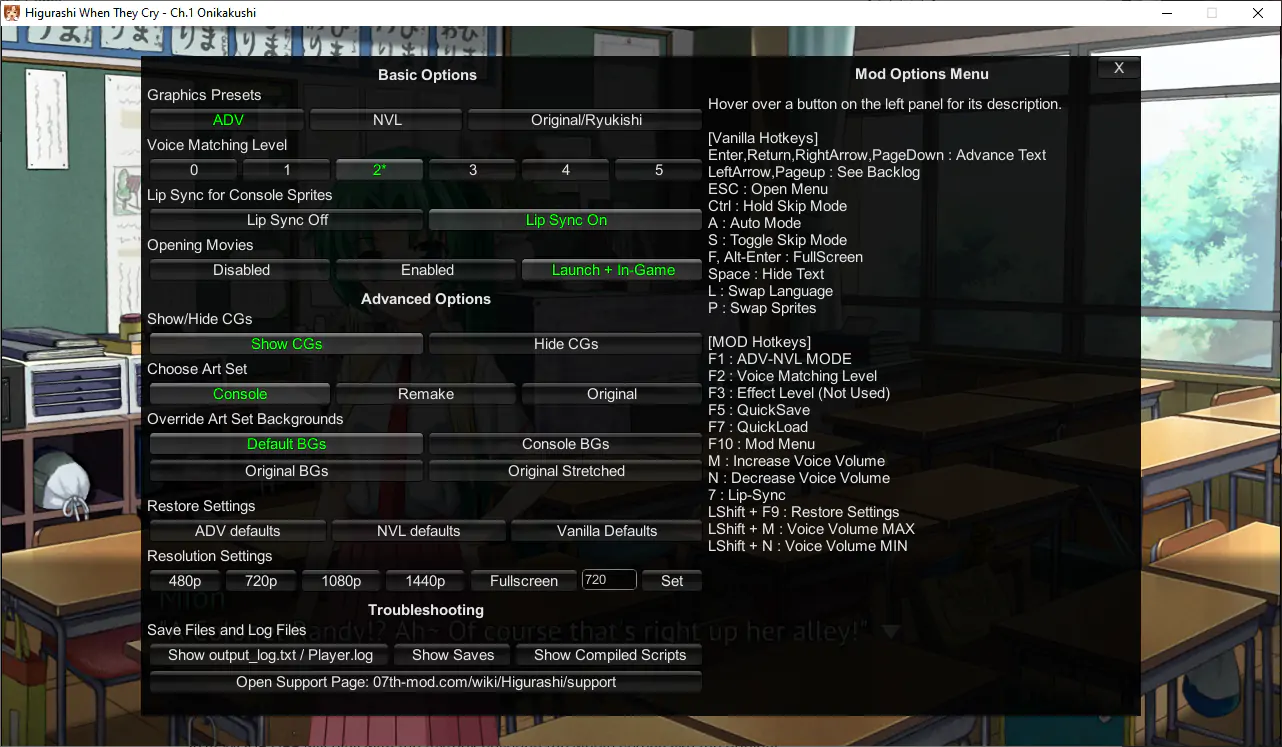
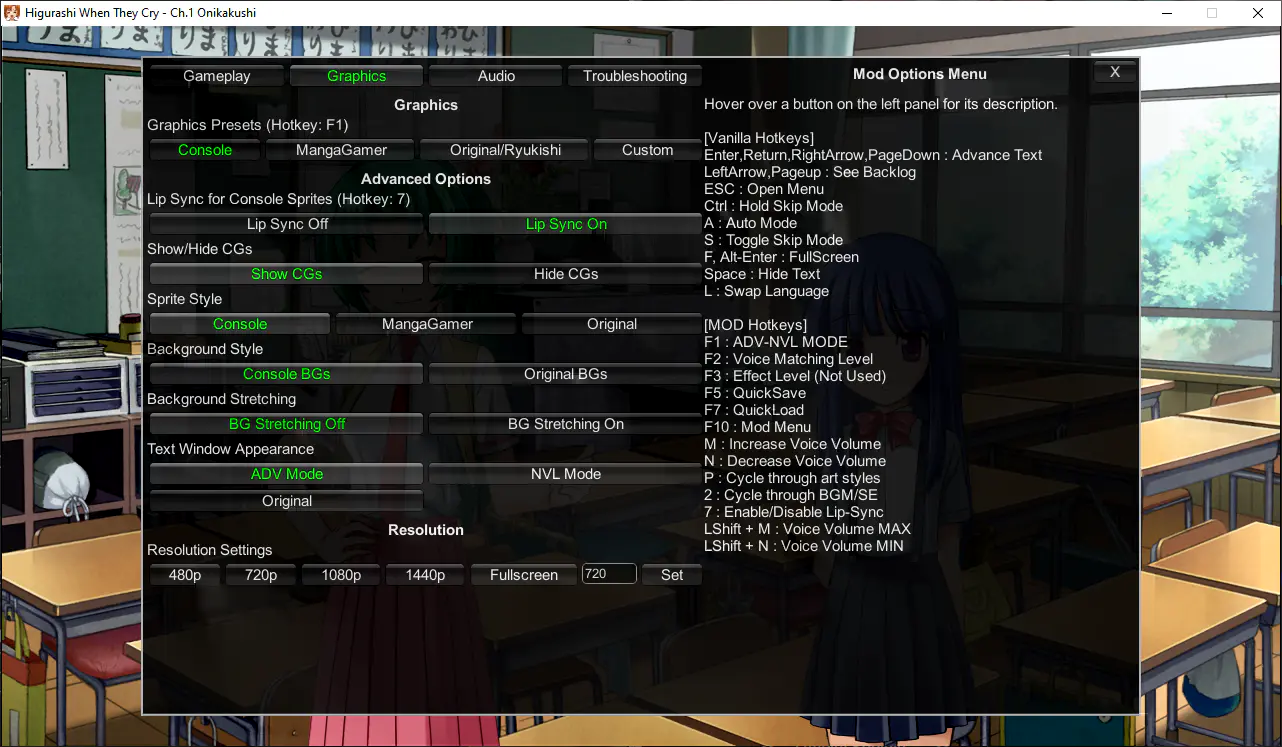
Update mod menu screenshot

diff --git a/docs/Higurashi/Higurashi-Part-2---Patch-configuration-and-keyboard-shortcuts.md b/docs/Higurashi/Higurashi-Part-2---Patch-configuration-and-keyboard-shortcuts.md
@@ -1,10 +1,6 @@
 # Keyboard Shortcuts and Settings
 
-## New DLL
-
-### Mod Options Menu
-
-If you have the new DLL installed (the default in 2021), you can use the "modern" mod menu to adjust the mod options.
+## Mod Options Menu
 
 ![Screenshot](img/mod_menu.webp)
 
